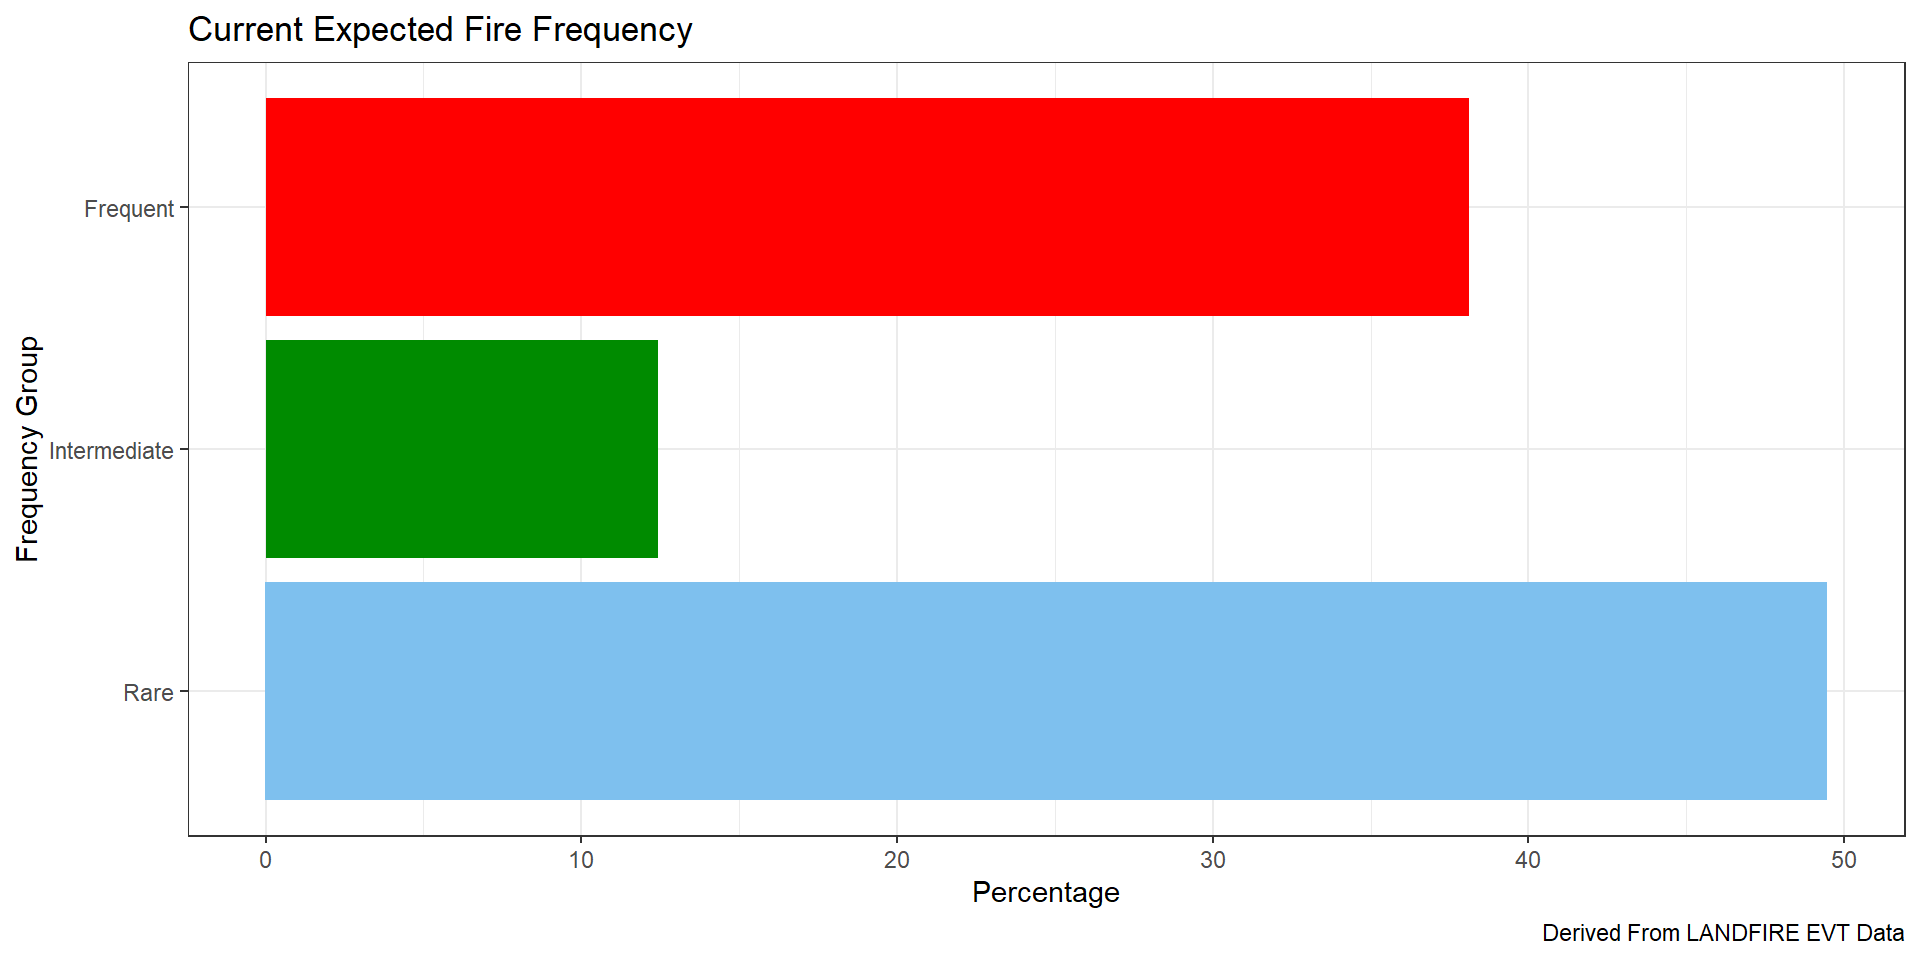
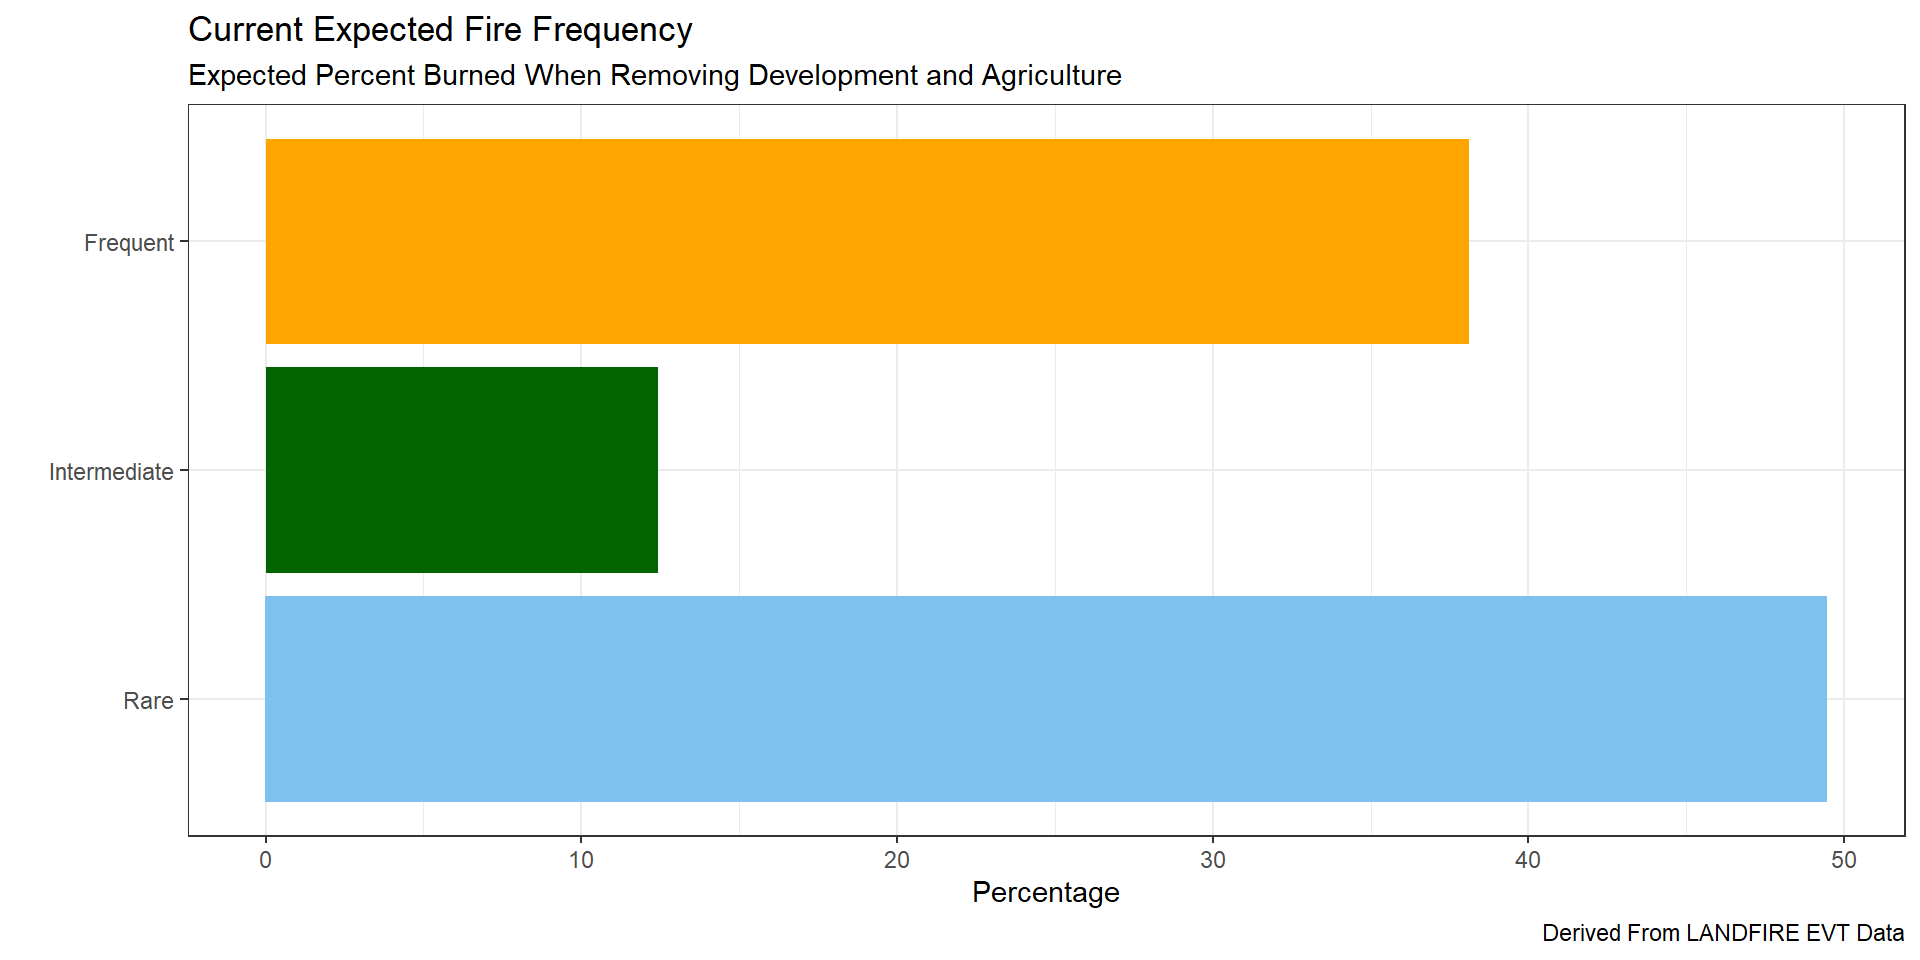
Commit with updated color blind friendly maps/grpaphs and intro/summary slides for silas

diff --git a/slides.html b/slides.html
@@ -379,9 +379,24 @@ Kelly Ahern, Silas Pickhardt and Randy Swaty
 </ul>
 <p><em>Or simply insert map</em></p>
 </section>
+<section id="change-in-fire" class="slide level2">
+<h2>Change in Fire</h2>
+<div>
+<ul>
+<li class="fragment">Easy and relatively quick method to:
+<ul>
+<li class="fragment">Visualize broad fire patterns from the past</li>
+<li class="fragment">Visualize expected fire patterns today</li>
+<li class="fragment">Swiftly compare and contrast these two standards</li>
+<li class="fragment">Draw conclusions about how the role fire has shifted</li>
+</ul></li>
+</ul>
+</div>
+</section>
 <section id="change-in-fire-the-methods" class="slide level2">
 <h2>Change in Fire: The Methods</h2>
 <div>
+<p>Assigning “Fire Frequency Groups”</p>
 <div class="columns">
 <div class="column">
 <p>Historical:</p>
@@ -408,11 +423,11 @@ Kelly Ahern, Silas Pickhardt and Randy Swaty
 <section id="mapping--historical" class="slide level2">
 <h2>Mapping- Historical</h2>
 
-<img data-src="images/MN_Historical.jpg" class="quarto-figure quarto-figure-center r-stretch" style="width:70.0%"></section>
+<img data-src="images/MN_Historical2.jpg" class="quarto-figure quarto-figure-center r-stretch" style="width:70.0%"></section>
 <section id="mapping--current" class="slide level2">
 <h2>Mapping- Current</h2>
 
-<img data-src="images/MN_today.jpg" class="quarto-figure quarto-figure-center r-stretch" style="width:70.0%"></section>
+<img data-src="images/MN_today2.jpg" class="quarto-figure quarto-figure-center r-stretch" style="width:70.0%"></section>
 <section id="results--historical" class="slide level2">
 <h2>Results- Historical</h2>
 
@@ -428,7 +443,21 @@ Kelly Ahern, Silas Pickhardt and Randy Swaty
 <section id="the-change" class="slide level2">
 <h2>The change</h2>
 
-<img data-src="slides_files/figure-revealjs/unnamed-chunk-9-1.png" class="quarto-figure quarto-figure-center r-stretch" style="width:70.0%"><div class="quarto-auto-generated-content">
+<img data-src="slides_files/figure-revealjs/unnamed-chunk-9-1.png" class="quarto-figure quarto-figure-center r-stretch" style="width:70.0%"></section>
+<section id="change-in-fire--summary" class="slide level2">
+<h2>Change in Fire- Summary</h2>
+<div>
+<ul>
+<li class="fragment">Most of Minnesota used to burn frequently</li>
+<li class="fragment">Now it doesn’t but…
+<ul>
+<li class="fragment">The need for frequent fire still exists<br>
+</li>
+</ul></li>
+<li class="fragment">Able to visualize these trends using this method</li>
+</ul>
+</div>
+<div class="quarto-auto-generated-content">
 <div class="footer footer-default">
 
 </div>
